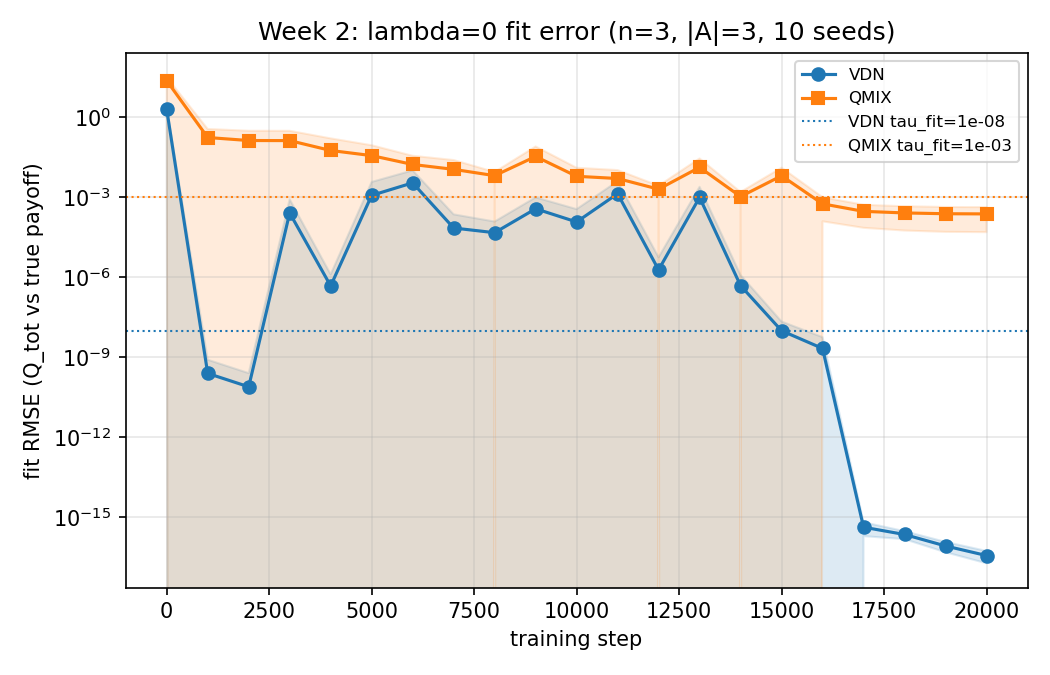
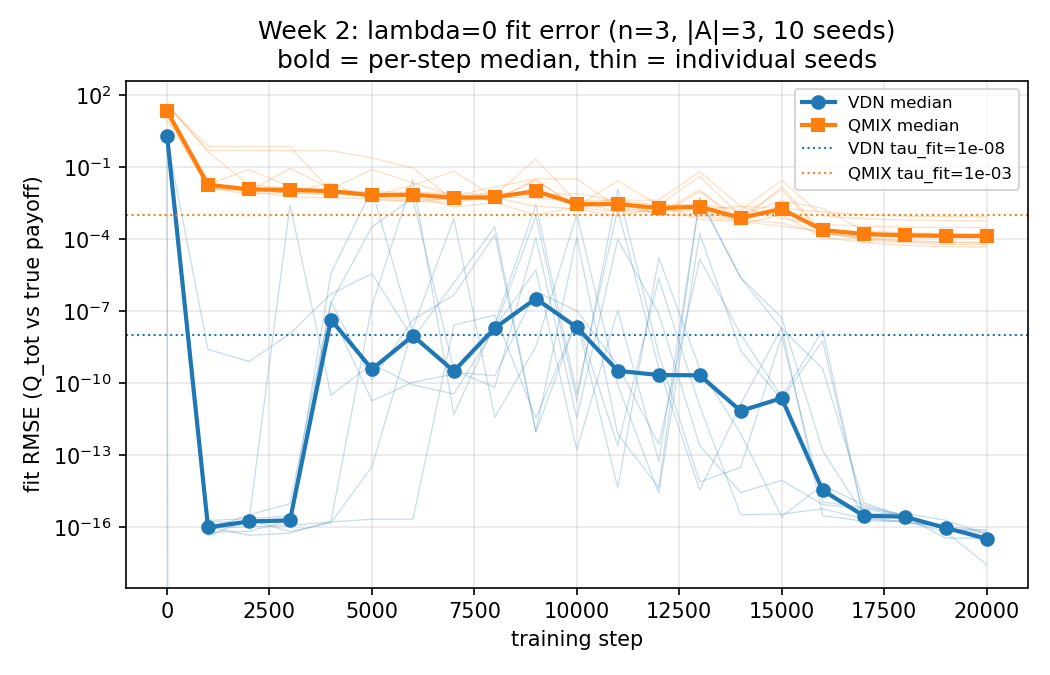
Week 2 post-review fixes: data_seed, docstrings, D5 interior test, figures
- Unify data_seed: eval/week2_lambda0.py and eval/week2_diagnostics.py now
  pass seed_to_int(data_seed) to train(), matching tests/test_methods.py,
  instead of a raw SeedSequence. Full-batch mode never reads data_seed, so
  Week 2's results don't change -- confirmed by re-running the pilot alone:
  floors are bit-identical to the committed pilot table. Only affects
  "sampled" mode's RNG stream (unused by any Week 2 result; relevant for
  Week 3).
- Fix train()'s docstring, which was a stale copy of check_joint_weights's.
- Fix extract_D's docstring: Shapley is pre-registered as primary (D1), not
  undecided.
- tests/test_policy_marginal.py: add the D5 interior test (0 < epsilon < 1),
  hand-derived from the additive-game marginal-contribution argument --
  phi_i = epsilon * (max f_i - mean f_i), i.e. epsilon times the uniform-
  baseline (epsilon=1) case. The existing tests only covered the epsilon=0
  and epsilon=1 endpoints.
- eval/week2_diagnostics.py: fit-error figure and the QMIX 100k-step panel
  now use per-seed lines + per-step median, matching week2_lambda0.py's
  credit-error figure -- replacing a linear mean +/- CI band that ran to
  the bottom of the log axis (same artifact already documented and fixed
  there).

D2, TRAIN_CONFIG, TAU_FIT, and the Task 7 reporting run/gate verdict are
untouched; results/week2_lambda0.{csv,png} were not regenerated.

diff --git a/game_project/eval/week2_diagnostics.py b/game_project/eval/week2_diagnostics.py
@@ -72,22 +72,22 @@ def run_fit_curves():
 
 
 def write_fit_plot(fit_curves):
+    """Per-seed lines (thin, low alpha) plus the per-step median (bold) --
+    same reason as eval/week2_lambda0.py:write_plot's own note: fit error
+    can hit exact 0.0 for some VDN seeds, and neither a linear nor a log
+    mean +/- CI band represents that faithfully on a log axis. The median
+    has no such failure mode."""
     fig, ax = plt.subplots(figsize=(7, 4.5))
     styles = {
         "VDN": dict(color="C0", marker="o"),
         "QMIX": dict(color="C1", marker="s"),
     }
     for method_name, (steps, arr) in fit_curves.items():
-        means, cis = [], []
-        for col in range(arr.shape[1]):
-            m, ci = _mean_ci95(arr[:, col])
-            means.append(m)
-            cis.append(ci)
-        means = np.array(means)
-        cis = np.array(cis)
         style = styles[method_name]
-        ax.plot(steps, means, label=method_name, **style)
-        ax.fill_between(steps, means - cis, means + cis, alpha=0.15, color=style["color"])
+        for row in arr:
+            ax.plot(steps, row, color=style["color"], linewidth=0.6, alpha=0.25, zorder=1)
+        median = np.nanmedian(arr, axis=0)
+        ax.plot(steps, median, label=f"{method_name} median", linewidth=2, zorder=2, **style)
 
     for method_name, tau in TAU_FIT.items():
         ax.axhline(tau, color=styles[method_name]["color"], linestyle=":", linewidth=1,
@@ -96,7 +96,8 @@ def write_fit_plot(fit_curves):
     ax.set_yscale("log")
     ax.set_xlabel("training step")
     ax.set_ylabel("fit RMSE (Q_tot vs true payoff)")
-    ax.set_title("Week 2: lambda=0 fit error (n=3, |A|=3, 10 seeds)")
+    ax.set_title("Week 2: lambda=0 fit error (n=3, |A|=3, 10 seeds)\n"
+                  "bold = per-step median, thin = individual seeds")
     ax.legend(fontsize=8)
     ax.grid(alpha=0.3, which="both")
     fig.tight_layout()
@@ -118,7 +119,7 @@ def run_qmix_longrun():
         history = train(
             model, payoff, weights=train_weights, mode="full_batch",
             steps=QMIX_LONGRUN_STEPS, lr=QMIX_LONGRUN_LR, sigma=0.0,
-            data_seed=data_seed, log_every=QMIX_LONGRUN_LOG_EVERY,
+            data_seed=seed_to_int(data_seed), log_every=QMIX_LONGRUN_LOG_EVERY,
         )
         steps_logged = [h["step"] for h in history]
         per_seed_fit.append([fit_error(h["q_tot_tensor"], payoff)["rmse"] for h in history])
@@ -136,24 +137,23 @@ def run_qmix_longrun():
 
 
 def write_qmix_longrun_plot(steps, fit_arr, lr_arr):
+    """Top panel: per-seed lines + per-step median, same rationale (and
+    same failure mode being avoided) as write_fit_plot above."""
     fig, (ax1, ax2) = plt.subplots(2, 1, figsize=(7, 7), sharex=True)
 
-    means, cis = [], []
-    for col in range(fit_arr.shape[1]):
-        m, ci = _mean_ci95(fit_arr[:, col])
-        means.append(m)
-        cis.append(ci)
-    means = np.array(means)
-    cis = np.array(cis)
-    ax1.plot(steps, means, color="C1", marker="s", markersize=3, label="QMIX fit rmse")
-    ax1.fill_between(steps, means - cis, means + cis, alpha=0.15, color="C1")
+    for row in fit_arr:
+        ax1.plot(steps, row, color="C1", linewidth=0.6, alpha=0.25, zorder=1)
+    median = np.nanmedian(fit_arr, axis=0)
+    ax1.plot(steps, median, color="C1", marker="s", markersize=3,
+              label="QMIX fit rmse (median)", zorder=2)
     ax1.axhline(TAU_FIT["QMIX"], color="C1", linestyle=":", linewidth=1,
                 label=f"tau_fit={TAU_FIT['QMIX']:.0e}")
     ax1.axvline(20000, color="gray", linestyle="--", linewidth=1,
                 label="Task 7's 20000-step budget")
     ax1.set_yscale("log")
     ax1.set_ylabel("fit RMSE")
-    ax1.set_title(f"QMIX at lambda=0, {QMIX_LONGRUN_STEPS} steps (pilot seeds 100-104)")
+    ax1.set_title(f"QMIX at lambda=0, {QMIX_LONGRUN_STEPS} steps (pilot seeds 100-104)\n"
+                  "bold = per-step median, thin = individual seeds")
     ax1.legend(fontsize=8)
     ax1.grid(alpha=0.3, which="both")
 

diff --git a/game_project/tests/test_policy_marginal.py b/game_project/tests/test_policy_marginal.py
@@ -13,6 +13,19 @@ independence rule):
 - test_epsilon_one_equals_uniform: read directly off policy_marginal's own
   formula in the task spec -- epsilon=1 reduces B_i to (0*delta + 1*uniform)
   -- so it's an algebraic identity in the spec, not a repo-derived value.
+- test_epsilon_greedy_interior_scales_uniform_credit: the interior case,
+  0 < epsilon < 1. Derivation (written out again at the call site): in an
+  additive (lambda=0) game, payoff(a) = sum_j f_j[a_j], so for any baseline
+  with independent per-agent marginals, v(S) = sum_{j in S} max_a f_j[a] +
+  sum_{j not in S} E_{B_j}[f_j] (outside agents are fixed by the max, inside
+  agents are each maxed independently). The marginal contribution of adding
+  agent i to any coalition S not containing i is then v(S+i) - v(S) =
+  max f_i - E_{B_i}[f_i], independent of S -- so every semivalue (whose
+  weights satisfy sum_s C(n-1,s)*w(s) = 1) gives phi_i = max f_i -
+  E_{B_i}[f_i], regardless of which one. Substituting the epsilon-greedy
+  mixture, E_{B_i}[f_i] = (1-epsilon)*max f_i + epsilon*mean f_i, so
+  phi_i = epsilon*(max f_i - mean f_i) -- exactly epsilon times the
+  epsilon=1 (uniform) case's own phi_i = max f_i - mean f_i.
 """
 
 import numpy as np
@@ -64,3 +77,35 @@ def test_epsilon_one_equals_uniform():
 
     B = policy_marginal(q_tables, "epsilon_greedy", 1.0)
     np.testing.assert_array_equal(B, uniform(n, n_actions))
+
+
+def test_epsilon_greedy_interior_scales_uniform_credit():
+    # n=3, |A|=3, hand-written additive (lambda=0) payoff: payoff(a) =
+    # f[0,a0] + f[1,a1] + f[2,a2]. Each row's max is unique (strictly
+    # greater than that row's other two entries), so the greedy joint
+    # action is unambiguous.
+    f = np.array([
+        [1.0, 2.0, 0.0],   # agent 0: unique max 2.0 at action 1
+        [0.0, 3.0, 1.0],   # agent 1: unique max 3.0 at action 1
+        [2.0, 2.0, 5.0],   # agent 2: unique max 5.0 at action 2
+    ])
+    n, n_actions = f.shape
+    payoff = f[0][:, None, None] + f[1][None, :, None] + f[2][None, None, :]
+    assert [int(np.argmax(f[i])) for i in range(n)] == [1, 1, 2]
+
+    # q_tables == f, so each agent's own greedy action matches the row
+    # argmax used in the derivation above.
+    epsilon = 0.05
+    B = policy_marginal(f, "epsilon_greedy", epsilon)
+    v = coalition_values(payoff, B)
+
+    # By hand (derivation in the module docstring): phi_i =
+    # epsilon * (max_a f[i, a] - mean_a f[i, a]).
+    phi_expected = epsilon * (f.max(axis=1) - f.mean(axis=1))
+    np.testing.assert_allclose(
+        phi_expected, np.array([0.05, 0.08333333333333333, 0.1]), atol=1e-12
+    )
+
+    for weights in (shapley_weights(n), banzhaf_weights(n), loo_weights(n)):
+        phi = semivalue(v, n, weights)
+        np.testing.assert_allclose(phi, phi_expected, atol=1e-12)

diff --git a/game_project/methods/train.py b/game_project/methods/train.py
@@ -134,20 +134,35 @@ def seed_to_int(seed_sequence):
     return int(seed_sequence.generate_state(1)[0])
 
 def train(model, payoff, *, weights, mode, steps, lr, sigma, data_seed, log_every):
-    """Check that the joint-action training weights are a valid probability
-distribution.
+    """Train `model` (VDN or QMIX) so its q_tot matches `payoff` under
+`weights`, with Adam + cosine-decay-to-zero (D4), for `steps` steps.
 
-The weights must have one entry for every possible joint action, be
-non-negative, finite, and sum to 1.
+Parameters:
+model : VDN or QMIX instance, with the shared q_tables/q_tot/q_tot_tensor/
+    greedy_action/mixer_grad contract.
+payoff : ndarray, shape (n_actions,)*n -- the ground-truth game.
+weights : ndarray, shape (n_actions,)*n -- a joint-action distribution
+    (validated by check_joint_weights); what "full_batch" weights its MSE
+    by, and what "sampled" draws joint actions from.
+mode : "full_batch" -- exact weighted MSE over every joint action, every
+    step (data_seed unused). "sampled" -- one joint action drawn from
+    `weights` per step, trained on that action's reward + N(0, sigma^2)
+    noise (games.generator.sample_reward), using a np.random.Generator
+    seeded by `data_seed` (an int -- pass seed_to_int(data_seed), not a
+    bare SeedSequence, so "sampled" draws the same stream here as in
+    tests/test_methods.py).
+steps, lr : optimizer step count and initial learning rate. The scheduler
+    is torch.optim.lr_scheduler.CosineAnnealingLR(T_max=steps, eta_min=0.0).
+log_every : log a history entry at step 0, every `log_every` steps, and the
+    final step.
 
-In our current setup (D3), these weights are uniform, so every joint
-action is trained equally.
-
-Full support is required by default because later credit extraction
-evaluates Q_tot for every joint action. A zero-weight action would
-therefore never be trained in full-batch mode.
-
-Returns a validated float64 copy.
+Returns:
+history : list of dicts, one per logged step, with keys "step", "q_tables",
+    "q_tot_tensor", "greedy_action", "mixer_grad", "train_loss" (the
+    full-batch weighted MSE, computed even in "sampled" mode, so fit error
+    is always comparable across both modes), and "lr" (the optimizer's
+    current learning rate, read off `opt.param_groups`, not the scheduler,
+    since `sched.step()` already mutated it in place by log time).
 """
     # Point to the phase1-week2-D3
     if mode not in ("full_batch", "sampled"):

diff --git a/game_project/methods/extraction.py b/game_project/methods/extraction.py
@@ -61,8 +61,8 @@ def extract_C(snapshot, B):
 def extract_D(snapshot, B, weights):
     """Semivalue on the learned Q_tot: semivalue(coalition_values(Q_tot, B), weights).
 
-    `weights` is required -- which semivalue (Shapley/Banzhaf/LOO) is not
-    pre-registered anywhere, so there is no default to pick silently.
+    `weights` is required. Pre-registered: Shapley is primary for the gate
+    and plots; phi_true must always use the same weights.
     """
     q_tables = snapshot["q_tables"]
     n, n_actions = q_tables.shape

diff --git a/game_project/eval/week2_lambda0.py b/game_project/eval/week2_lambda0.py
@@ -109,7 +109,7 @@ def _run(ModelClass, seed, steps, lr, log_every):
     model = ModelClass(N, N_ACTIONS, seed_to_int(init_seed))
     history = train(
         model, payoff, weights=train_weights, mode="full_batch",
-        steps=steps, lr=lr, sigma=0.0, data_seed=data_seed, log_every=log_every,
+        steps=steps, lr=lr, sigma=0.0, data_seed=seed_to_int(data_seed), log_every=log_every,
     )
     return payoff, history
 
